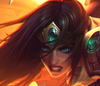
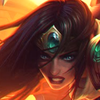
fix thumbnail

diff --git a/app/assets/stylesheets/application.css b/app/assets/stylesheets/application.css
@@ -80,7 +80,7 @@ a:hover {
 }
  
 .userphoto {
-  border-radius: 50px;
+  border-radius: 50%;
 }
 
 ul {

diff --git a/app/models/user.rb b/app/models/user.rb
@@ -11,7 +11,7 @@ class User < ActiveRecord::Base
   has_many :invitations
   belongs_to :invitation
 
-  has_attached_file :picture, :styles => {:medium => "300x300>", :small => "100x100>" }, :default_url => "/img/default_:style.jpg"
+  has_attached_file :picture, :styles => {:medium => "300x300>", :small => "100x100#" }, :default_url => "/img/default_:style.jpg"
 
   validates_attachment :picture, :content_type => { :content_type => ["image/jpg", "image/gif", "image/png", "image/jpeg"] }
   has_many :posts
